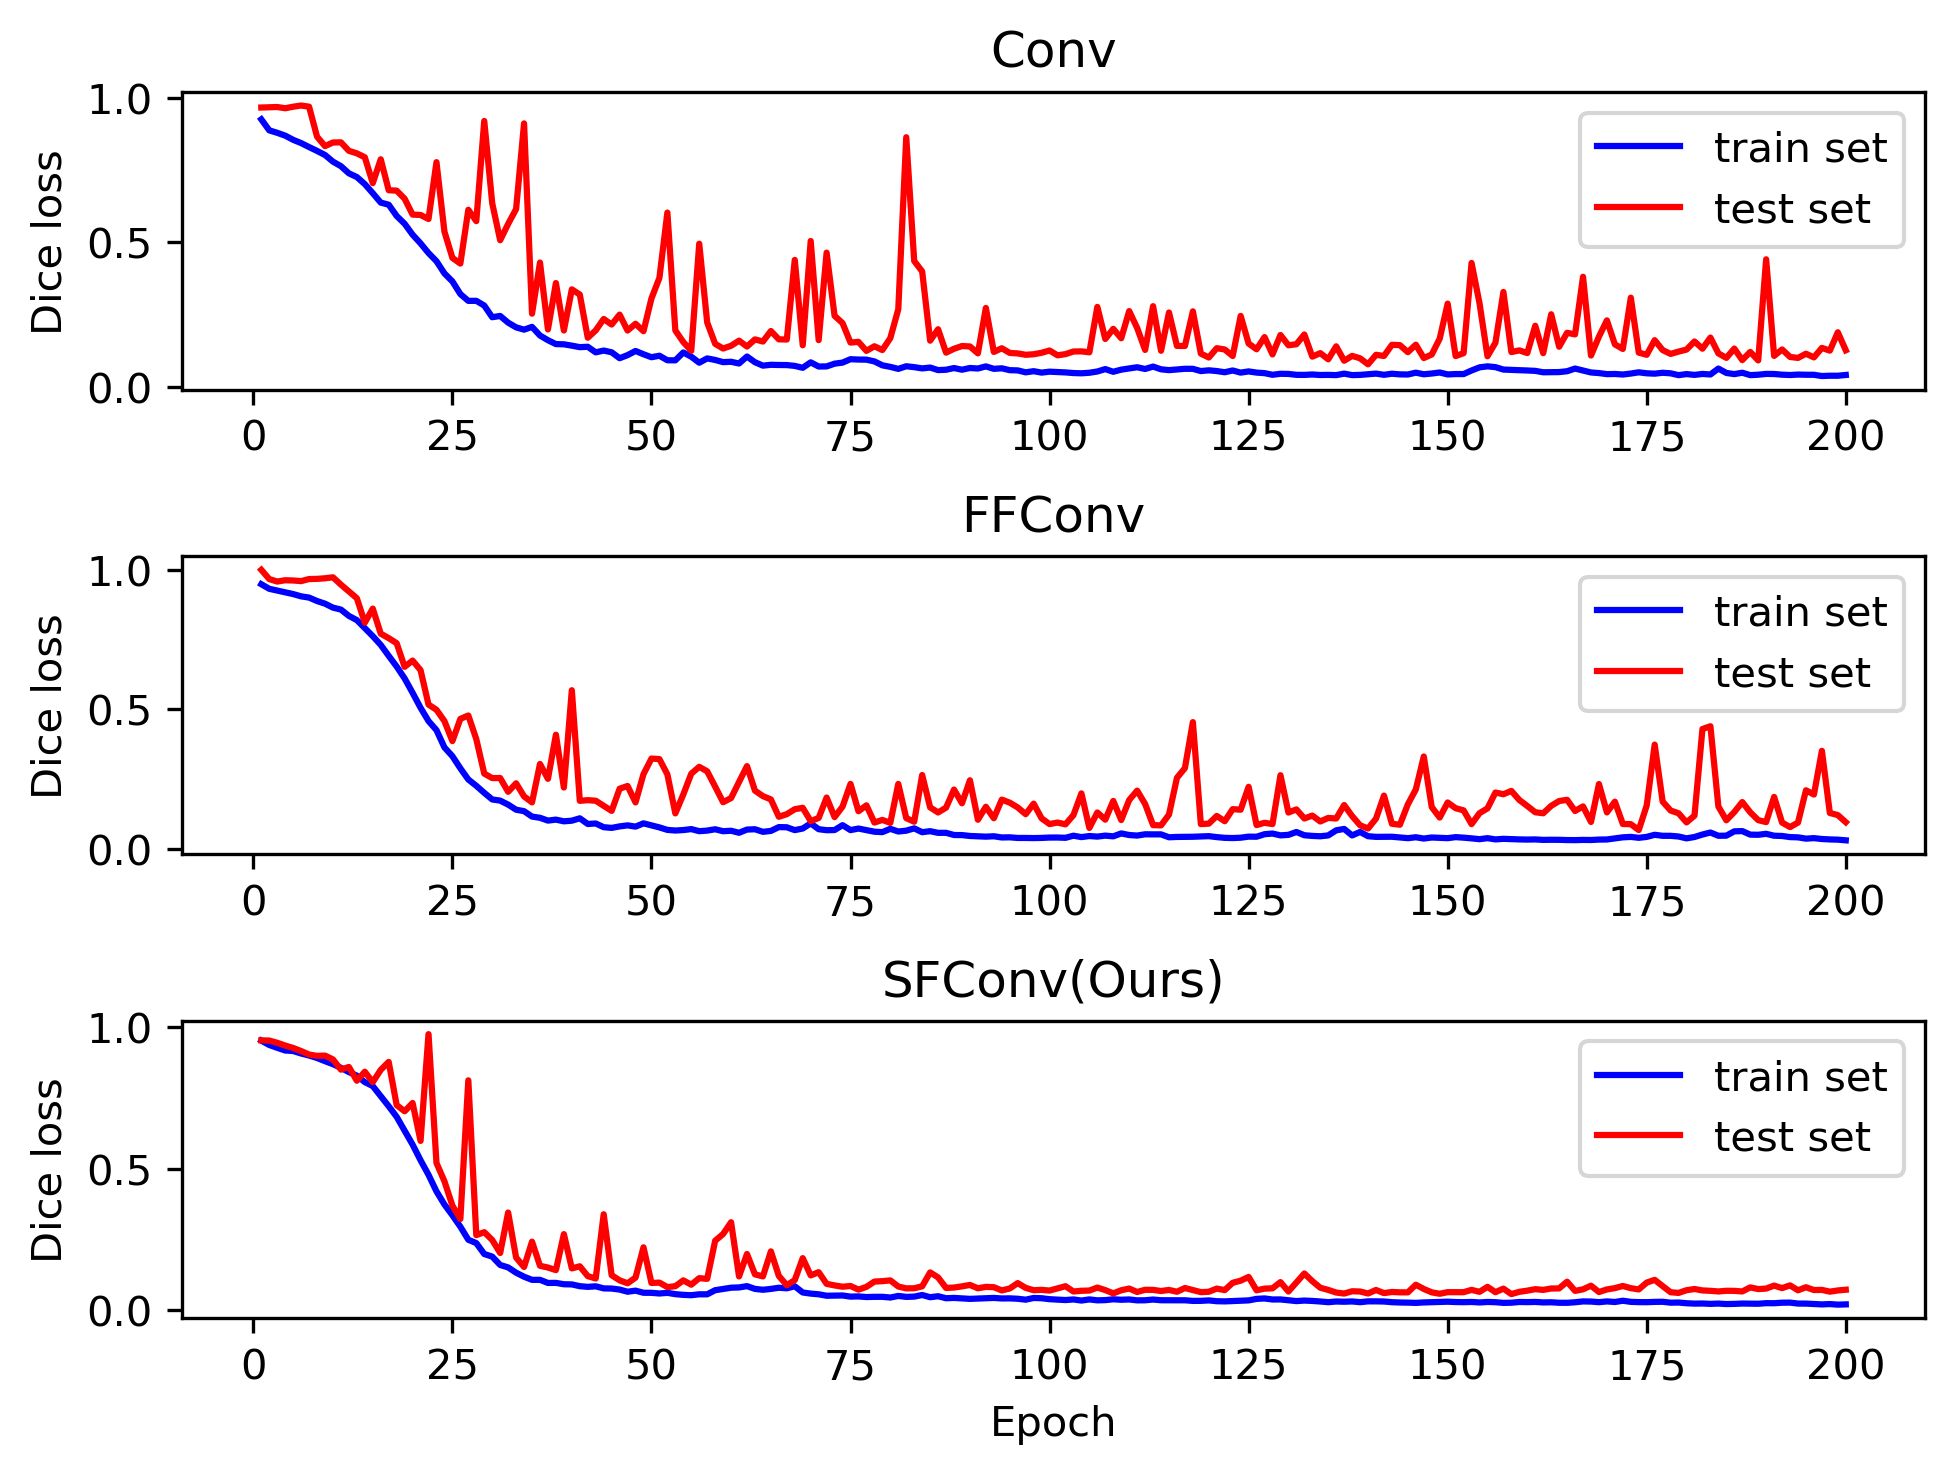
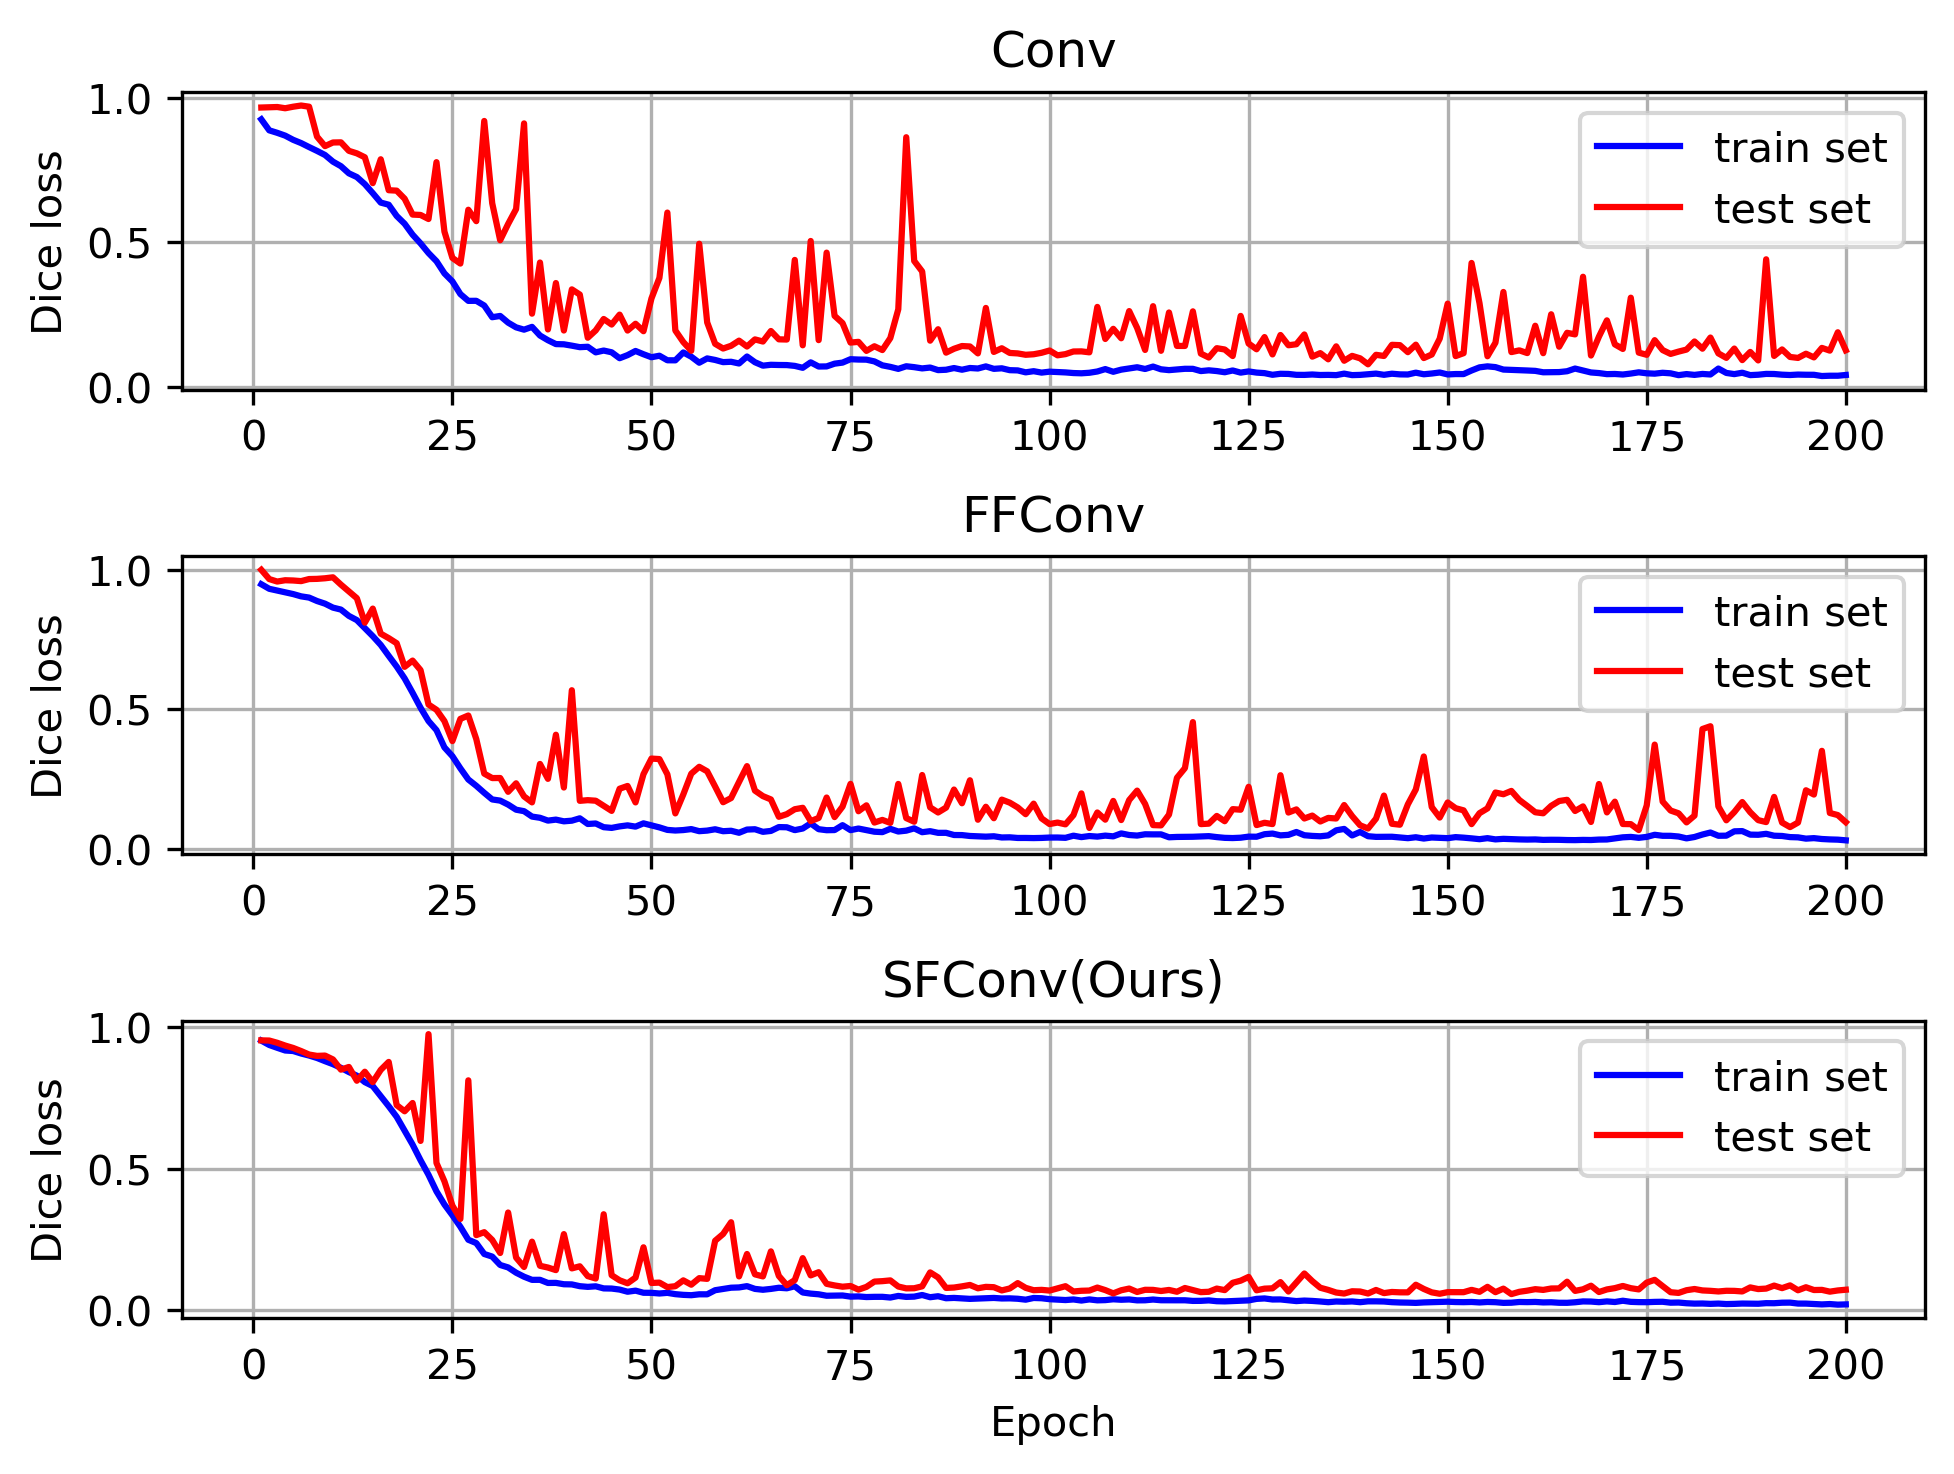
fjs

diff --git a/utils/fundus_seg_plots.py b/utils/fundus_seg_plots.py
@@ -59,17 +59,20 @@ def vis_seg_loss():
     axes[0].plot(x_axis, conv_te,'r-',label='test set')
     axes[0].set_ylabel('Dice loss')
     axes[0].set_title('Conv')
+    axes[0].grid()
     axes[0].legend()
     axes[1].plot(x_axis, ffconv_tr,'b-',label='train set')
     axes[1].plot(x_axis, ffconv_te,'r-',label='test set')
     axes[1].set_ylabel('Dice loss')
     axes[1].set_title('FFConv')
+    axes[1].grid()
     axes[1].legend()
     axes[2].plot(x_axis, sfconv_tr,'b-',label='train set')
     axes[2].plot(x_axis, sfconv_te,'r-',label='test set')
     axes[2].set_xlabel('Epoch')
     axes[2].set_ylabel('Dice loss')
     axes[2].set_title('SFConv(Ours)')
+    axes[2].grid()
     axes[2].legend()
     fig.savefig('/data/pycode/SFConv/imgs/dice_loss.png', dpi=300, bbox_inches='tight')
 
@@ -119,17 +122,19 @@ def vis_seg_performance():
     #axes[0].set_title('Model performance')
     axes[0].legend(loc = 'upper center') #lower left
 
-    axes[1].plot(x_axies, conv_param,'bo--',label='Conv')
+    axes[1].plot(x_axies, conv_param,'bo-',label='Conv')
     axes[1].text(x_axies[2], conv_param[-1], conv_param[-1], ha='left', va='top')
-    axes[1].plot(x_axies, ffconv_param,'g+-.',label='FFConv')
+    axes[1].plot(x_axies, ffconv_param,'g+-',label='FFConv')
     for a, b in zip(x_axies, ffconv_param):
         axes[1].text(a, b, b, ha='center', va='bottom')
-    axes[1].plot(x_axies, sfconv_param,'r^--',label='SFConv(Ours)')
+    axes[1].plot(x_axies, sfconv_param,'r^-',label='SFConv(Ours)')
     for a, b in zip(x_axies, sfconv_param):
         axes[1].text(a, b, b, ha='center', va='bottom')
     #axes[1].plot(x_axies, conv_param,'bo-',x_axies, ffconv_param,'g+-',x_axies, sfconv_param,'r^-')
     axes[1].set_xticks([0, 1, 2, 3, 4])
     axes[1].set_xticklabels(['0.1', '0.125', '0.25', '0.5', '1.0'])
+    axes[1].set_yticks([0, 5, 10, 15])
+    axes[1].set_yticklabels(['0.0', '5.0', '10.0', '15.0'])
     #axes[1].set_xlabel('Rank scale')
     axes[1].set_ylabel('Parameters(MB)')
     #axes[1].set_title('Model complexity')
@@ -166,7 +171,7 @@ def vis_seg_performance():
     axes[2].set_xticks([0, 1, 2, 3, 4])
     axes[2].set_xticklabels(['0.1', '0.125', '0.25', '0.5', '1.0'])
     axes[2].set_xlabel('Rank scale')
-    axes[2].set_ylabel('Frams per second(FPS)')
+    axes[2].set_ylabel('Frames per second(FPS)')
     #axes[2].set_title('Speed of model inference')
     axes[2].legend()
 
@@ -174,8 +179,8 @@ def vis_seg_performance():
 
 
 def main():
-    vis_seg_performance()
-    #vis_seg_loss()
+    #vis_seg_performance()
+    vis_seg_loss()
     
 
 

diff --git a/nets/resnet.py b/nets/resnet.py
@@ -36,14 +36,14 @@ model_urls = {
 def conv3x3(in_planes: int, out_planes: int, stride: int = 1, groups: int = 1, dilation: int = 1) -> nn.Conv2d:
     """3x3 convolution with padding"""
 
-    #return nn.Conv2d(in_planes, out_planes, kernel_size=3, stride=stride, padding=dilation, groups=groups, bias=False, dilation=dilation)
-    return FactorizedConv(nn.Conv2d(in_planes, out_planes, kernel_size=3, stride=stride, padding=1, groups=1, bias=False, dilation=1), rank_scale=0.5, spec=True)
+    return nn.Conv2d(in_planes, out_planes, kernel_size=3, stride=stride, padding=dilation, groups=groups, bias=False, dilation=dilation)
+    #return FactorizedConv(nn.Conv2d(in_planes, out_planes, kernel_size=3, stride=stride, padding=1, groups=1, bias=False, dilation=1), rank_scale=0.5, spec=True)
 
 def conv1x1(in_planes: int, out_planes: int, stride: int = 1) -> nn.Conv2d:
     """1x1 convolution"""
 
-    #return nn.Conv2d(in_planes, out_planes, kernel_size=1, stride=stride, bias=False)
-    return FactorizedConv(nn.Conv2d(in_planes, out_planes, kernel_size=1, stride=stride, bias=False), rank_scale=0.5, spec=True)
+    return nn.Conv2d(in_planes, out_planes, kernel_size=1, stride=stride, bias=False)
+    #return FactorizedConv(nn.Conv2d(in_planes, out_planes, kernel_size=1, stride=stride, bias=False), rank_scale=0.5, spec=True)
     
 class BasicBlock(nn.Module):
     expansion: int = 1
